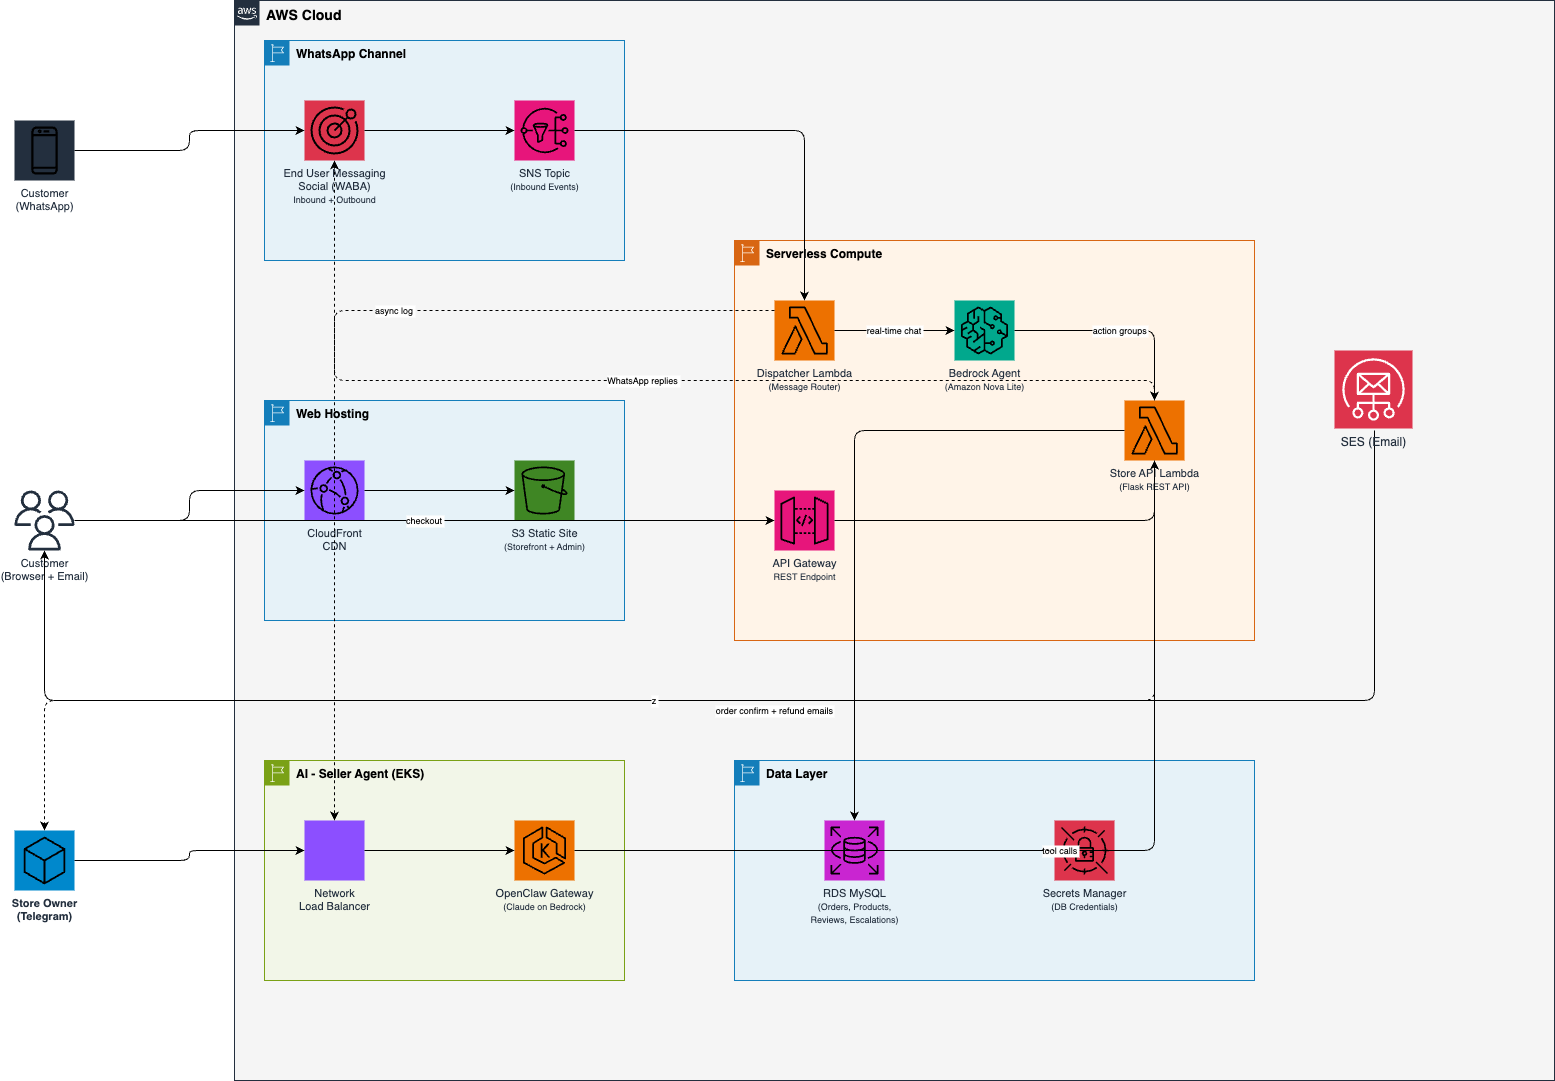
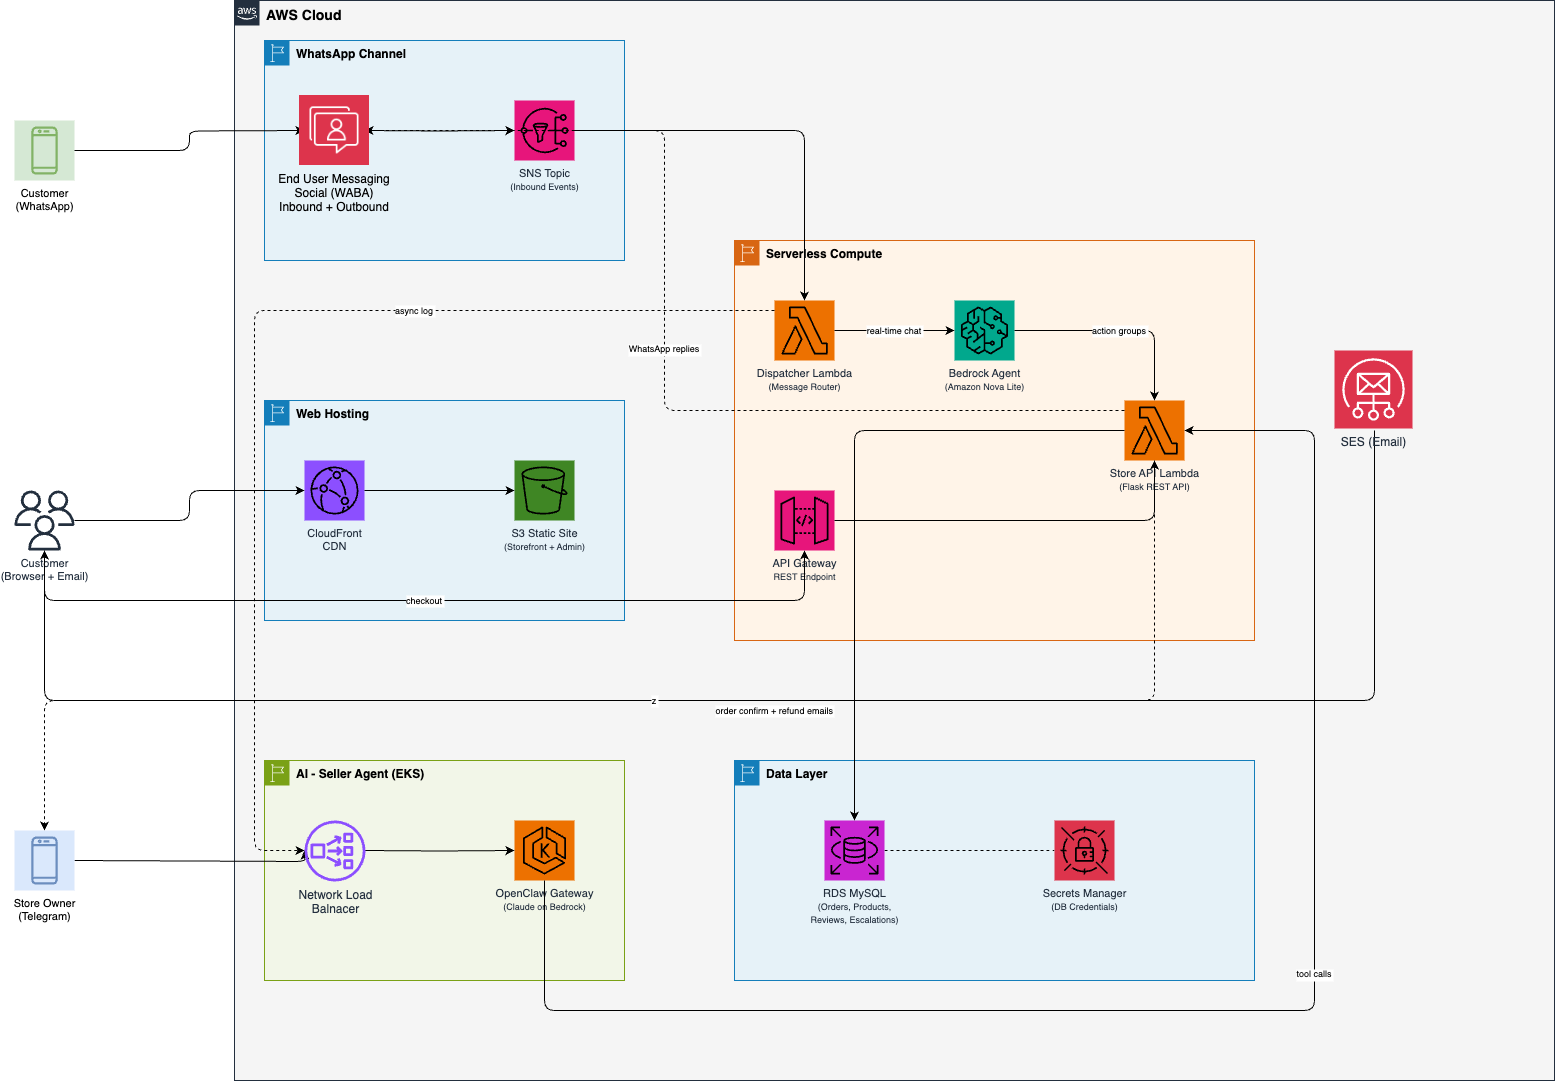
Security hardening: VPC-connect dispatcher, internal NLB, rate limiting, cdk-nag
Move dispatcher Lambda into VPC private subnets so it reaches OpenClaw
through the now-internal NLB instead of the public internet. Add
per-sender rate limiting (5 req/min) to the dispatcher to prevent
Bedrock Agent abuse. Add cdk-nag for CDK security linting. Remove CLI
flag deploy example from README (tokens visible in shell history) and
replace with a security note recommending cdk.context.json or Secrets
Manager. Update architecture diagram to reflect VPC/NLB changes.

diff --git a/cdk/lib/claw-boutique-stack.ts b/cdk/lib/claw-boutique-stack.ts
@@ -134,6 +134,9 @@ export class ClawBoutiqueStack extends Stack {
         iam.ManagedPolicy.fromAwsManagedPolicyName(
           "service-role/AWSLambdaBasicExecutionRole"
         ),
+        iam.ManagedPolicy.fromAwsManagedPolicyName(
+          "service-role/AWSLambdaVPCAccessExecutionRole"
+        ),
       ],
     });
 
@@ -169,7 +172,27 @@ export class ClawBoutiqueStack extends Stack {
     );
 
     // =========================================================================
-    // 4. Lambda Dispatcher — function
+    // 4a. VPC — networking for EKS, RDS, and Lambda
+    // =========================================================================
+    const vpc = new ec2.Vpc(this, "ClawBoutiqueVpc", {
+      maxAzs: 2,
+      natGateways: 1,
+      subnetConfiguration: [
+        {
+          name: "Public",
+          subnetType: ec2.SubnetType.PUBLIC,
+          cidrMask: 24,
+        },
+        {
+          name: "Private",
+          subnetType: ec2.SubnetType.PRIVATE_WITH_EGRESS,
+          cidrMask: 24,
+        },
+      ],
+    });
+
+    // =========================================================================
+    // 4b. Lambda Dispatcher — function
     // =========================================================================
     const dispatcherLogGroup = new logs.LogGroup(
       this,
@@ -195,6 +218,8 @@ export class ClawBoutiqueStack extends Stack {
       timeout: Duration.seconds(30),
       memorySize: 256,
       logGroup: dispatcherLogGroup,
+      vpc,
+      vpcSubnets: { subnetType: ec2.SubnetType.PRIVATE_WITH_EGRESS },
       environment: {
         INBOUND_TOPIC_ARN: inboundTopic.topicArn,
         WHATSAPP_PHONE_NUMBER_ID: whatsappPhoneNumberId,
@@ -212,26 +237,6 @@ export class ClawBoutiqueStack extends Stack {
     //     SES send permissions are granted conditionally in section 9 if
     //     sesFromEmail context is provided.  Use a verified email address.)
     // =========================================================================
-
-    // =========================================================================
-    // 6. VPC — networking for EKS and RDS
-    // =========================================================================
-    const vpc = new ec2.Vpc(this, "ClawBoutiqueVpc", {
-      maxAzs: 2,
-      natGateways: 1,
-      subnetConfiguration: [
-        {
-          name: "Public",
-          subnetType: ec2.SubnetType.PUBLIC,
-          cidrMask: 24,
-        },
-        {
-          name: "Private",
-          subnetType: ec2.SubnetType.PRIVATE_WITH_EGRESS,
-          cidrMask: 24,
-        },
-      ],
-    });
 
     // =========================================================================
     // 7. RDS MySQL Database
@@ -507,7 +512,7 @@ export class ClawBoutiqueStack extends Stack {
       },
     });
 
-    // Service: NLB to expose OpenClaw externally (Lambda not in VPC)
+    // Service: Internal NLB to expose OpenClaw to VPC-only traffic (Lambda, etc.)
     // NOTE: Deployment manifest is created after API Gateway (section 11)
     // so it can reference storeApi.url for tool env vars.
     const serviceManifest = cluster.addManifest("OpenClawService", {
@@ -518,7 +523,7 @@ export class ClawBoutiqueStack extends Stack {
         namespace: "default",
         annotations: {
           "service.beta.kubernetes.io/aws-load-balancer-type": "nlb",
-          "service.beta.kubernetes.io/aws-load-balancer-scheme": "internet-facing",
+          "service.beta.kubernetes.io/aws-load-balancer-internal": "true",
           "service.beta.kubernetes.io/aws-load-balancer-target-group-attributes":
             "preserve_client_ip.enabled=false",
         },

diff --git a/lambda/dispatcher/index.ts b/lambda/dispatcher/index.ts
@@ -72,6 +72,33 @@ if (!WHATSAPP_PHONE_NUMBER_ID) {
 }
 
 // ---------------------------------------------------------------------------
+// Per-sender rate limiting (in-memory, per Lambda instance)
+// ---------------------------------------------------------------------------
+
+const RATE_LIMIT_WINDOW_MS = 60_000; // 1 minute
+const RATE_LIMIT_MAX = 5; // max Bedrock Agent calls per sender per window
+
+/** Map of sender phone → list of invocation timestamps within the window. */
+const senderTimestamps: Map<string, number[]> = new Map();
+
+/**
+ * Returns true if the sender has exceeded the rate limit.
+ * Cleans up expired timestamps as a side effect.
+ */
+function isRateLimited(sender: string): boolean {
+  const now = Date.now();
+  const cutoff = now - RATE_LIMIT_WINDOW_MS;
+  const timestamps = (senderTimestamps.get(sender) ?? []).filter((t) => t > cutoff);
+  if (timestamps.length >= RATE_LIMIT_MAX) {
+    senderTimestamps.set(sender, timestamps);
+    return true;
+  }
+  timestamps.push(now);
+  senderTimestamps.set(sender, timestamps);
+  return false;
+}
+
+// ---------------------------------------------------------------------------
 // AWS SDK clients
 // ---------------------------------------------------------------------------
 
@@ -409,6 +436,16 @@ async function handleWhatsAppRecord(record: SNSEventRecord): Promise<void> {
             }
             // If review submission failed (e.g. no order found), fall through to Bedrock Agent
             log("INFO", "Review submission failed, falling through to Bedrock Agent", { from: senderPhone });
+          }
+
+          // Per-sender rate limit check before calling Bedrock
+          if (isRateLimited(senderPhone)) {
+            log("WARN", "Rate limited sender", { from: senderPhone });
+            await sendWhatsAppReply(
+              senderPhone,
+              "You're sending messages too quickly. Please wait a moment and try again."
+            );
+            continue;
           }
 
           log("INFO", "Invoking Bedrock Agent", {

diff --git a/README.md b/README.md
@@ -2,7 +2,7 @@
 
 OpenClaw-powered WhatsApp e-commerce bot built on AWS. Customers browse and order through a web storefront, then receive WhatsApp messages and emails for order confirmation, surveys, and refunds. The store owner manages everything through Telegram, where an AI agent (Claude on EKS) handles restock, refund, and order commands.
 
-![Architecture](docs/architecture.png)
+![Architecture](docs/architecture.drawio.png)
 
 ## How it works
 
@@ -163,18 +163,9 @@ npx cdk bootstrap
 npx cdk deploy
 ```
 
-CDK reads credentials from `cdk/cdk.context.json` (gitignored). You can also pass them as CLI flags:
+**Security note:** Store sensitive values (Telegram bot token, WhatsApp IDs) in `cdk/cdk.context.json`, which is gitignored. Do not pass tokens as `-c` CLI flags -- they are visible in shell history and process listings. For CI/CD pipelines, use AWS Secrets Manager or AWS Systems Manager Parameter Store instead.
 
-```bash
-npx cdk deploy \
-  -c telegramBotToken="<token>" \
-  -c telegramSellerId="<id>" \
-  -c whatsappPhoneNumberId="<id>" \
-  -c whatsappWabaId="<id>" \
-  -c sesFromEmail="[email redacted]"
-```
-
-CDK handles database initialization (schema + seed data), Docker image build, ECR push, and EKS deployment automatically. Cold deploy takes about 25-30 minutes (EKS cluster creation dominates).
+CDK handles database initialization (schema + seed data), Docker image build, ECR push, and EKS deployment automatically. A first-time deploy takes about 25-30 minutes (EKS cluster creation dominates).
 
 ### Destroy
 